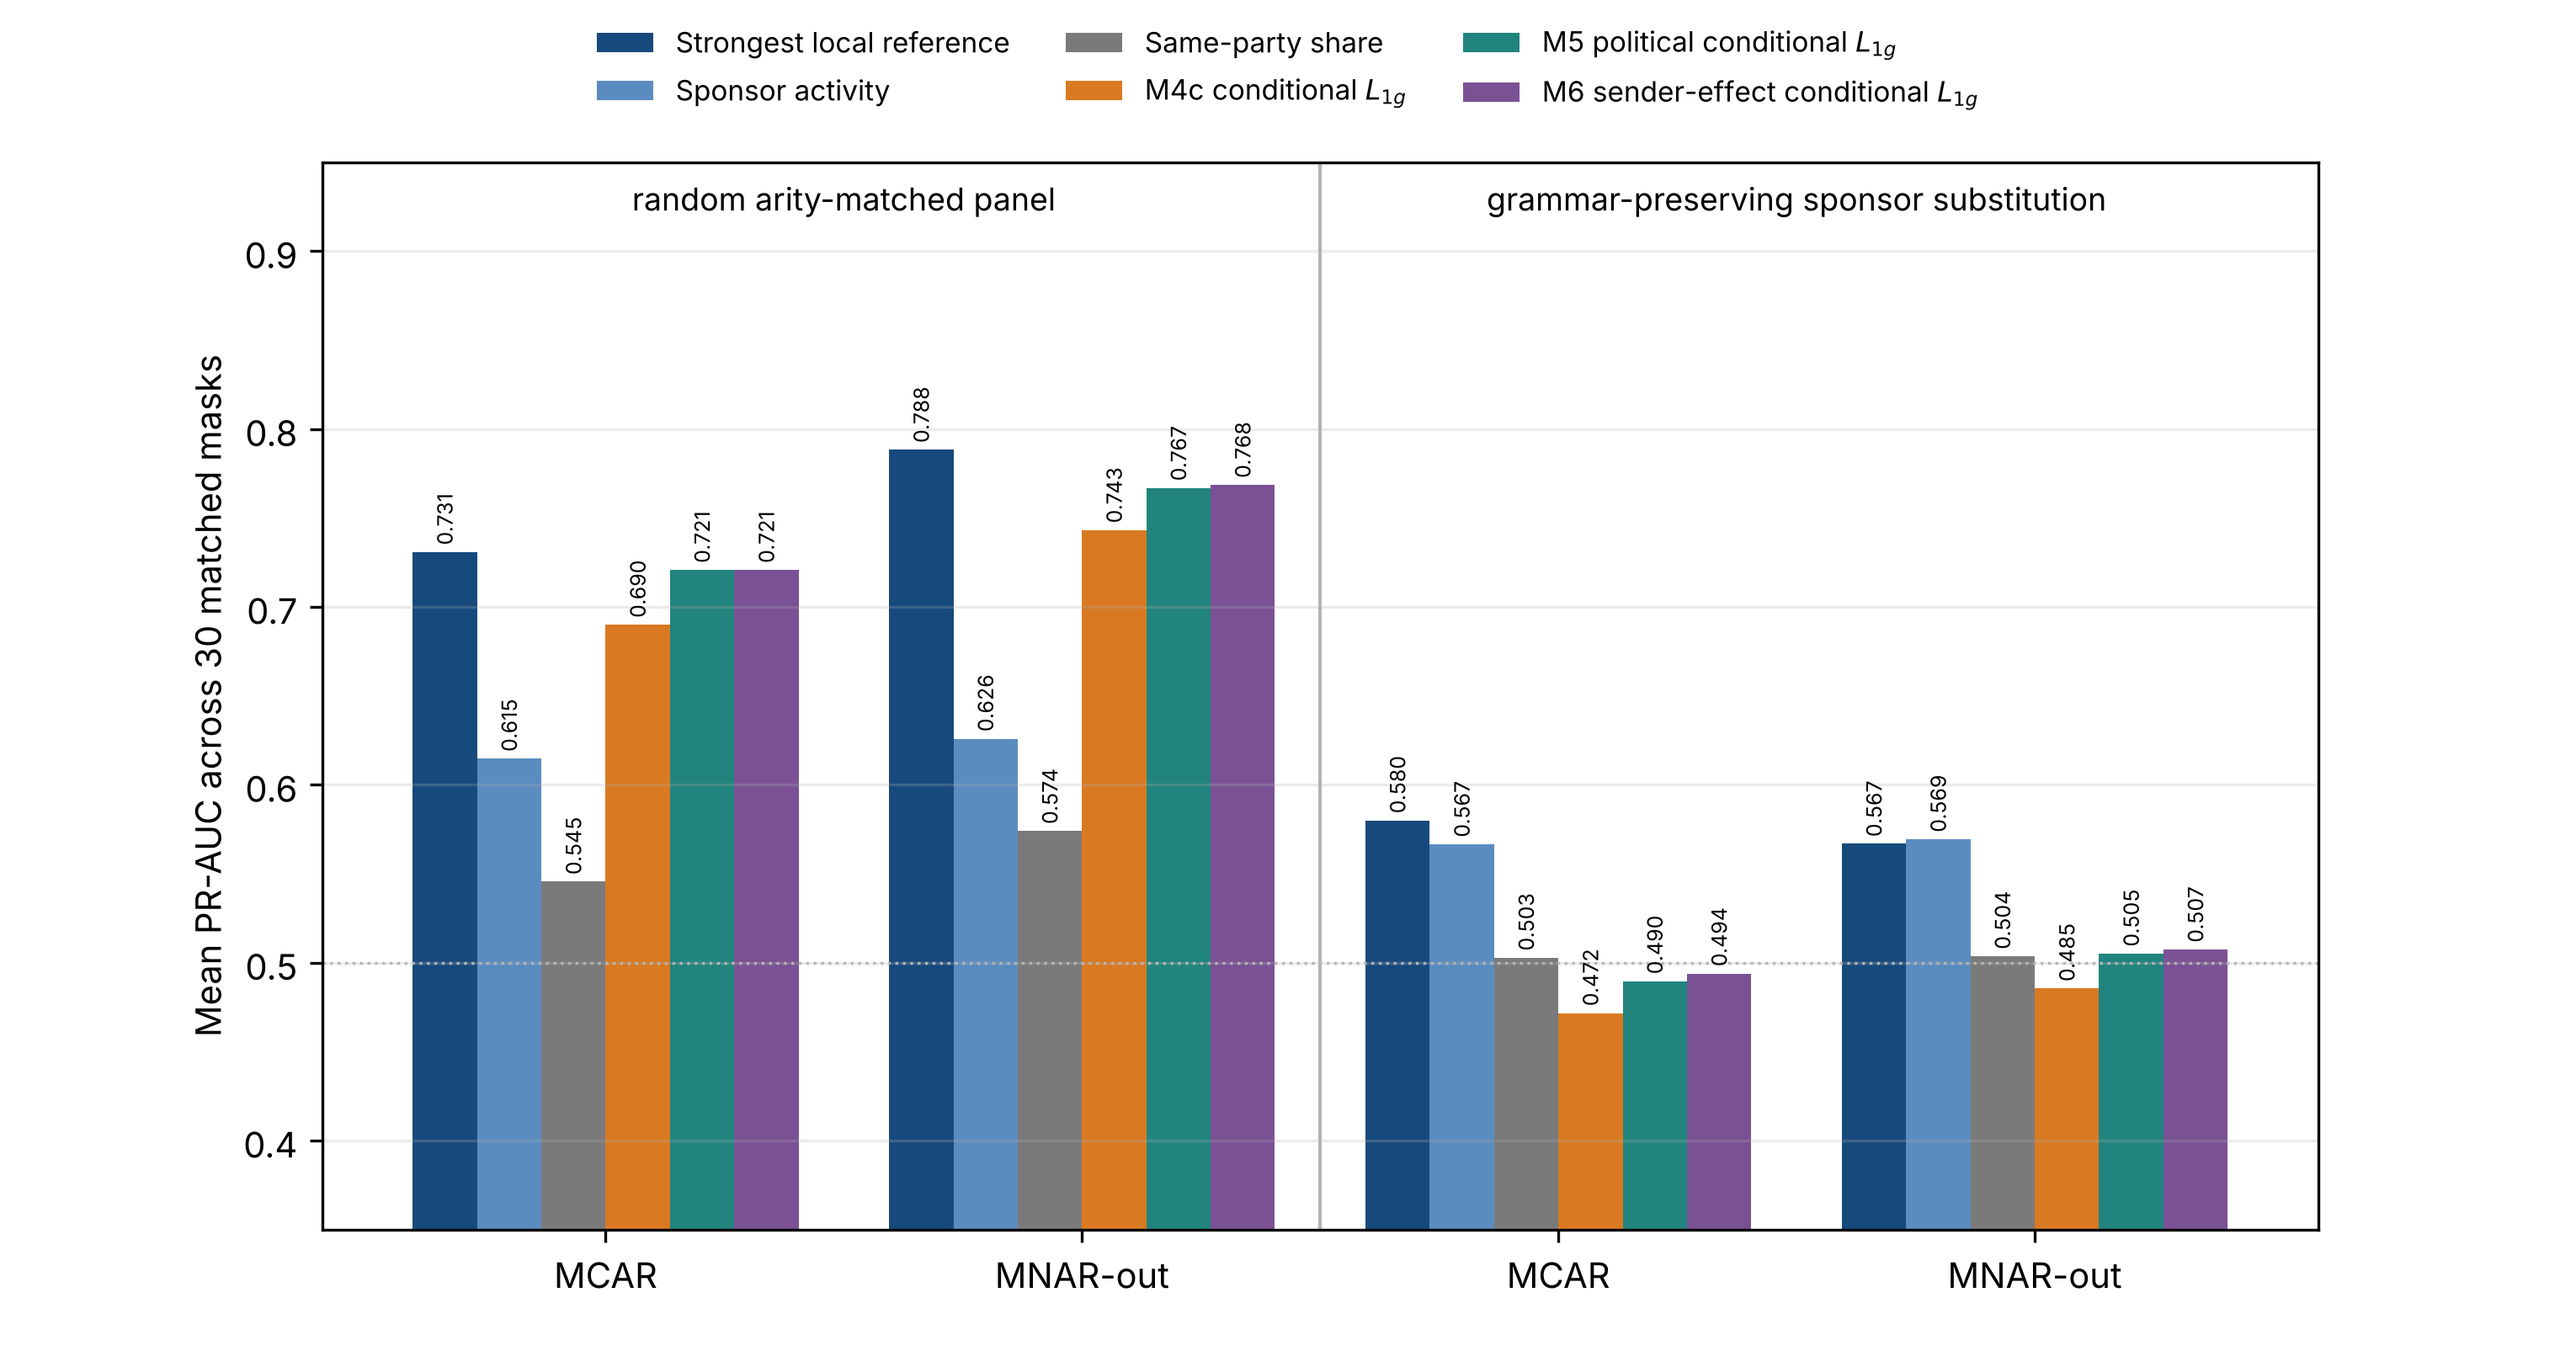
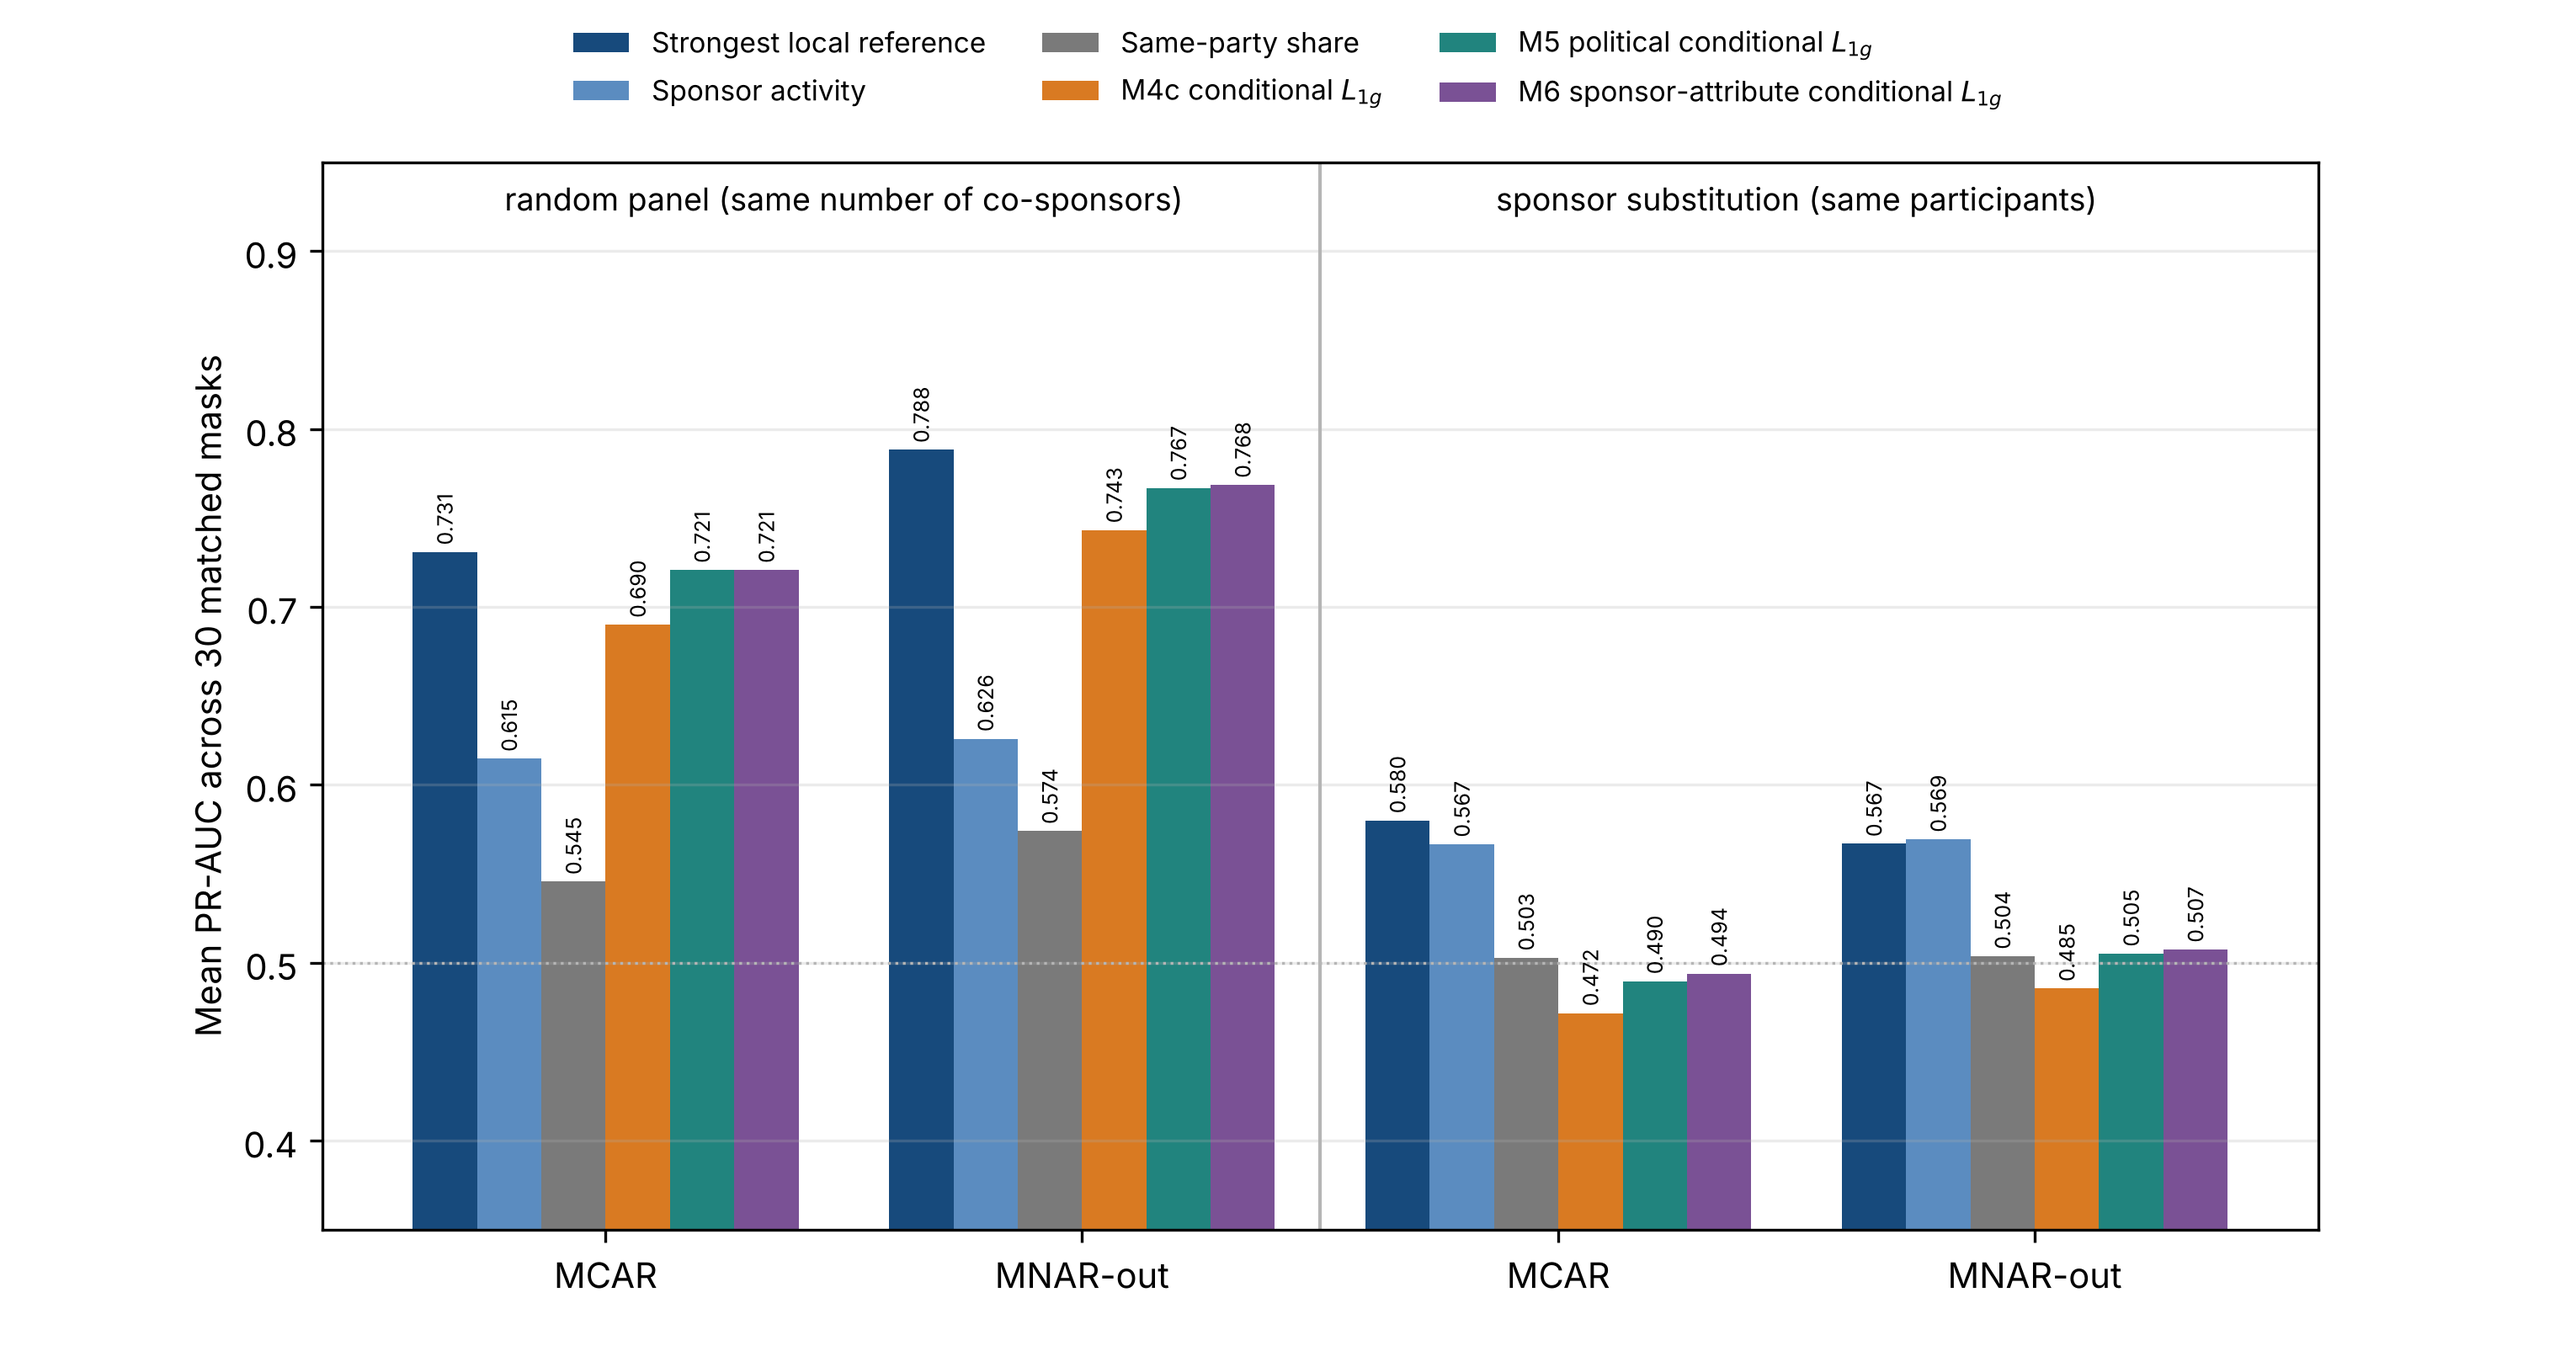
Plainer wording in generated tables and figures
Claude-Session: https://claude.ai/code/session_019kQx1J2J82SZUevqKF1jSo

diff --git a/revision_nov2026/src/make_tables.py b/revision_nov2026/src/make_tables.py
@@ -22,7 +22,7 @@ NAMES = {
     "M0_L1g": "M0 density",
     "M4c_L1g": "M4c structural",
     "M5_L1g": "M5 political",
-    "M6_L1g": "M6 sender",
+    "M6_L1g": "M6 sponsor attributes",
     "M4c_nomut_L1g": "M4c without mutuality",
 }
 PANEL = {"random": "random", "sub": "sponsor substitution"}
@@ -92,7 +92,7 @@ table(
     rows,
     "Local and baseline scores are mean lifts over the candidate footprint computed on the training projection. "
     "Sponsor activity is the sponsor's training out-degree; co-sponsor popularity is the mean training in-degree of the head. "
-    "ERGM rows use split-specific MPLE fits and the factorized conditional footprint score $L_{1g}$.",
+    "ERGM rows use mask-specific MPLE fits and the factorized conditional footprint score $L_{1g}$.",
 )
 
 # ---------------------------------------------------------------- Table 3 competitive contrasts
@@ -141,12 +141,12 @@ for a, b, txt in [
             rows.append(f"{lab} & {PANEL[p]} & {txt} & " + ci(C[p][f"{a} - {b}"]))
 table(
     "table_03b_political_covariate_contrasts.tex",
-    "118th Senate: paired PR-AUC contrasts along the ERGM ladder.",
+    "118th Senate: paired PR-AUC contrasts along the nested ERGMs.",
     "tab:political-contrast",
     "lllrrr",
     r"Mask & panel & contrast & difference & 95\% CI & sign-flip $p$",
     rows,
-    "M5 adds party and state matching and absolute DW-NOMINATE distance to M4c; M6 adds sender-side majority-caucus "
+    "M5 adds party and state matching and absolute DW-NOMINATE distance to M4c; M6 adds sponsor-side majority-caucus "
     "and seniority terms; the last contrast removes mutuality alone. Intervals and tests as in Table~\\ref{tab:senate-contrasts}.",
 )
 
@@ -189,14 +189,14 @@ for m in ["M0", "M1", "M2", "M3", "M4", "M4c", "M4c_nomut", "M5", "M6"]:
     rows.append(f"{m.replace('_nomut', ' without mutuality')} & " + " & ".join(f3(v) for v in vals))
 table(
     "table_a4_ergm_ladder.tex",
-    "118th Senate: mean PR-AUC of the MPLE ERGM ladder ($L_{1g}$).",
+    "118th Senate: mean PR-AUC of the nested MPLE ERGMs ($L_{1g}$).",
     "tab:ergm-ladder",
     "lrrrr",
     "Model & random MCAR & random MNAR-out & substitution MCAR & substitution MNAR-out",
     rows,
     "M0 edges; M1 adds mutuality; M2 adds geometrically weighted out- and in-degree; M3 adds outgoing two-path closure; "
     "M4 adds shared-target and shared-source closure; M4c adds cyclic triples; M5 adds party, state and ideology; M6 adds "
-    "majority caucus and seniority of the sender.",
+    "majority caucus and seniority of the sponsor.",
 )
 
 # ---------------------------------------------------------------- Mask realisation (all cases)
@@ -333,7 +333,7 @@ table(
     "lrr",
     "MPLE model & PR-AUC & ROC-AUC",
     rows,
-    "Thirty arc-first splits: 30\\% of arcs are withheld at random and paired with an equal number of random non-arcs; "
+    "Thirty arc-level masks: 30\\% of arcs are withheld at random and paired with an equal number of random non-arcs; "
     "scores are MPLE conditional tie probabilities on the remaining projection.",
 )
 

diff --git a/revision_nov2026/results/tables/table_02_primary_performance.tex b/revision_nov2026/results/tables/table_02_primary_performance.tex
@@ -14,7 +14,7 @@ MCAR & random & co-sponsor popularity & 0.644 & 0.671 \\
 MCAR & random & same-party share & 0.545 & 0.529 \\
 MCAR & random & M4c structural & 0.690 & 0.710 \\
 MCAR & random & M5 political & 0.721 & 0.717 \\
-MCAR & random & M6 sender & 0.721 & 0.716 \\
+MCAR & random & M6 sponsor attributes & 0.721 & 0.716 \\
 MCAR & sponsor substitution & Adamic--Adar total & 0.536 & 0.542 \\
 MCAR & sponsor substitution & degree product & 0.580 & 0.590 \\
 MCAR & sponsor substitution & sponsor activity & 0.567 & 0.580 \\
@@ -22,7 +22,7 @@ MCAR & sponsor substitution & co-sponsor popularity & 0.543 & 0.542 \\
 MCAR & sponsor substitution & same-party share & 0.503 & 0.509 \\
 MCAR & sponsor substitution & M4c structural & 0.472 & 0.463 \\
 MCAR & sponsor substitution & M5 political & 0.490 & 0.480 \\
-MCAR & sponsor substitution & M6 sender & 0.494 & 0.486 \\
+MCAR & sponsor substitution & M6 sponsor attributes & 0.494 & 0.486 \\
 MNAR-out & random & Adamic--Adar total & 0.788 & 0.805 \\
 MNAR-out & random & degree product & 0.718 & 0.747 \\
 MNAR-out & random & sponsor activity & 0.626 & 0.678 \\
@@ -30,7 +30,7 @@ MNAR-out & random & co-sponsor popularity & 0.651 & 0.681 \\
 MNAR-out & random & same-party share & 0.574 & 0.568 \\
 MNAR-out & random & M4c structural & 0.743 & 0.764 \\
 MNAR-out & random & M5 political & 0.767 & 0.761 \\
-MNAR-out & random & M6 sender & 0.768 & 0.763 \\
+MNAR-out & random & M6 sponsor attributes & 0.768 & 0.763 \\
 MNAR-out & sponsor substitution & Adamic--Adar total & 0.530 & 0.555 \\
 MNAR-out & sponsor substitution & degree product & 0.567 & 0.590 \\
 MNAR-out & sponsor substitution & sponsor activity & 0.569 & 0.609 \\
@@ -38,8 +38,8 @@ MNAR-out & sponsor substitution & co-sponsor popularity & 0.509 & 0.499 \\
 MNAR-out & sponsor substitution & same-party share & 0.504 & 0.512 \\
 MNAR-out & sponsor substitution & M4c structural & 0.485 & 0.489 \\
 MNAR-out & sponsor substitution & M5 political & 0.505 & 0.501 \\
-MNAR-out & sponsor substitution & M6 sender & 0.507 & 0.504 \\
+MNAR-out & sponsor substitution & M6 sponsor attributes & 0.507 & 0.504 \\
 \bottomrule
 \end{tabular}
-\par\vspace{2pt}\footnotesize Local and baseline scores are mean lifts over the candidate footprint computed on the training projection. Sponsor activity is the sponsor's training out-degree; co-sponsor popularity is the mean training in-degree of the head. ERGM rows use split-specific MPLE fits and the factorized conditional footprint score $L_{1g}$.
+\par\vspace{2pt}\footnotesize Local and baseline scores are mean lifts over the candidate footprint computed on the training projection. Sponsor activity is the sponsor's training out-degree; co-sponsor popularity is the mean training in-degree of the head. ERGM rows use mask-specific MPLE fits and the factorized conditional footprint score $L_{1g}$.
 \end{table}

diff --git a/revision_nov2026/src/make_figures.py b/revision_nov2026/src/make_figures.py
@@ -30,7 +30,7 @@ series = [
     ("Same-party share", v("party_share"), "#7a7a7a"),
     ("M4c conditional $L_{1g}$", v("M4c_L1g"), "#d97a22"),
     ("M5 political conditional $L_{1g}$", v("M5_L1g"), "#21847e"),
-    ("M6 sender-effect conditional $L_{1g}$", v("M6_L1g"), "#7a5195"),
+    ("M6 sponsor-attribute conditional $L_{1g}$", v("M6_L1g"), "#7a5195"),
 ]
 x = np.arange(4)
 w = 0.135
@@ -45,8 +45,8 @@ ax.set_ylim(0.35, 0.95)
 ax.set_xticks(x, ["MCAR", "MNAR-out", "MCAR", "MNAR-out"])
 ax.axvline(1.5, color="#b5b5b5", linewidth=1)
 ax.axhline(0.5, color="#b5b5b5", linewidth=0.8, linestyle=":")
-ax.text(0.5, 0.94, "random arity-matched panel", ha="center", va="top", fontsize=9)
-ax.text(2.5, 0.94, "grammar-preserving sponsor substitution", ha="center", va="top", fontsize=9)
+ax.text(0.5, 0.94, "random panel (same number of co-sponsors)", ha="center", va="top", fontsize=9)
+ax.text(2.5, 0.94, "sponsor substitution (same participants)", ha="center", va="top", fontsize=9)
 fig.legend(frameon=False, loc="upper center", bbox_to_anchor=(0.5, 1.0), ncol=3, fontsize=8)
 ax.grid(axis="y", alpha=0.25)
 fig.subplots_adjust(bottom=0.09, top=0.88)

diff --git a/revision_nov2026/results/tables/table_04_sponsor_identification.tex b/revision_nov2026/results/tables/table_04_sponsor_identification.tex
@@ -13,7 +13,7 @@ MCAR & sponsor activity & 0.389 & 0.626 & 0.059 [0.055, 0.062] \\
 MCAR & co-sponsor popularity & 0.370 & 0.608 & 0.039 [0.035, 0.043] \\
 MCAR & M4c structural & 0.304 & 0.563 & -0.026 [-0.031, -0.021] \\
 MCAR & M5 political & 0.316 & 0.573 & -0.015 [-0.020, -0.009] \\
-MCAR & M6 sender & 0.326 & 0.579 & -0.005 [-0.010, 0.001] \\
+MCAR & M6 sponsor attributes & 0.326 & 0.579 & -0.005 [-0.010, 0.001] \\
 MCAR & uniform chance & 0.330 & 0.581 &  \\
 MNAR-out & Adamic--Adar OI & 0.402 & 0.633 & 0.083 [0.076, 0.089] \\
 MNAR-out & degree product & 0.393 & 0.627 & 0.074 [0.068, 0.080] \\
@@ -21,7 +21,7 @@ MNAR-out & sponsor activity & 0.394 & 0.625 & 0.075 [0.068, 0.082] \\
 MNAR-out & co-sponsor popularity & 0.295 & 0.557 & -0.024 [-0.027, -0.020] \\
 MNAR-out & M4c structural & 0.311 & 0.567 & -0.008 [-0.012, -0.004] \\
 MNAR-out & M5 political & 0.320 & 0.575 & 0.001 [-0.003, 0.005] \\
-MNAR-out & M6 sender & 0.328 & 0.579 & 0.009 [0.004, 0.014] \\
+MNAR-out & M6 sponsor attributes & 0.328 & 0.579 & 0.009 [0.004, 0.014] \\
 MNAR-out & uniform chance & 0.319 & 0.569 &  \\
 \bottomrule
 \end{tabular}

diff --git a/revision_nov2026/results/tables/table_03b_political_covariate_contrasts.tex b/revision_nov2026/results/tables/table_03b_political_covariate_contrasts.tex
@@ -1,7 +1,7 @@
 \begin{table}[tbp]
 \centering
 \small
-\caption{118th Senate: paired PR-AUC contrasts along the ERGM ladder.}
+\caption{118th Senate: paired PR-AUC contrasts along the nested ERGMs.}
 \label{tab:political-contrast}
 \begin{tabular}{lllrrr}
 \toprule
@@ -25,5 +25,5 @@ MNAR-out & random & M4c without mutuality minus M4c & -0.036 & [-0.039, -0.034] 
 MNAR-out & sponsor substitution & M4c without mutuality minus M4c & -0.011 & [-0.013, -0.010] & $<0.0001$ \\
 \bottomrule
 \end{tabular}
-\par\vspace{2pt}\footnotesize M5 adds party and state matching and absolute DW-NOMINATE distance to M4c; M6 adds sender-side majority-caucus and seniority terms; the last contrast removes mutuality alone. Intervals and tests as in Table~\ref{tab:senate-contrasts}.
+\par\vspace{2pt}\footnotesize M5 adds party and state matching and absolute DW-NOMINATE distance to M4c; M6 adds sponsor-side majority-caucus and seniority terms; the last contrast removes mutuality alone. Intervals and tests as in Table~\ref{tab:senate-contrasts}.
 \end{table}

diff --git a/revision_nov2026/results/tables/table_a4_ergm_ladder.tex b/revision_nov2026/results/tables/table_a4_ergm_ladder.tex
@@ -1,7 +1,7 @@
 \begin{table}[tbp]
 \centering
 \small
-\caption{118th Senate: mean PR-AUC of the MPLE ERGM ladder ($L_{1g}$).}
+\caption{118th Senate: mean PR-AUC of the nested MPLE ERGMs ($L_{1g}$).}
 \label{tab:ergm-ladder}
 \begin{tabular}{lrrrr}
 \toprule
@@ -18,5 +18,5 @@ M5 & 0.721 & 0.767 & 0.490 & 0.505 \\
 M6 & 0.721 & 0.768 & 0.494 & 0.507 \\
 \bottomrule
 \end{tabular}
-\par\vspace{2pt}\footnotesize M0 edges; M1 adds mutuality; M2 adds geometrically weighted out- and in-degree; M3 adds outgoing two-path closure; M4 adds shared-target and shared-source closure; M4c adds cyclic triples; M5 adds party, state and ideology; M6 adds majority caucus and seniority of the sender.
+\par\vspace{2pt}\footnotesize M0 edges; M1 adds mutuality; M2 adds geometrically weighted out- and in-degree; M3 adds outgoing two-path closure; M4 adds shared-target and shared-source closure; M4c adds cyclic triples; M5 adds party, state and ideology; M6 adds majority caucus and seniority of the sponsor.
 \end{table}

diff --git a/revision_nov2026/results/tables/table_a6_static_diagnostic.tex b/revision_nov2026/results/tables/table_a6_static_diagnostic.tex
@@ -13,5 +13,5 @@ M4c & 0.700 & 0.726 \\
 M5 & 0.730 & 0.751 \\
 \bottomrule
 \end{tabular}
-\par\vspace{2pt}\footnotesize Thirty arc-first splits: 30\% of arcs are withheld at random and paired with an equal number of random non-arcs; scores are MPLE conditional tie probabilities on the remaining projection.
+\par\vspace{2pt}\footnotesize Thirty arc-level masks: 30\% of arcs are withheld at random and paired with an equal number of random non-arcs; scores are MPLE conditional tie probabilities on the remaining projection.
 \end{table}
